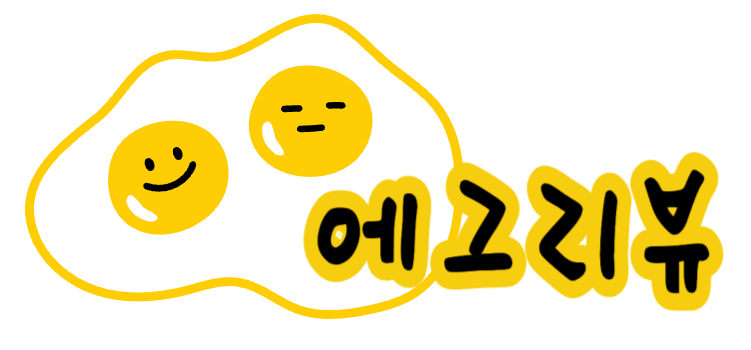
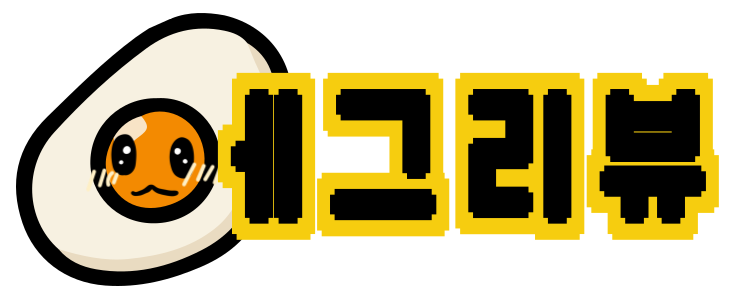
fix: 로고 추가

diff --git a/src/components/SearchResults.js b/src/components/SearchResults.js
@@ -1,23 +1,23 @@
 import React, { useState } from "react";
 import { List, Spin } from "antd";
-import { EnvironmentOutlined } from "@ant-design/icons"; // 네이버 지도 아이콘 대체
+import { EnvironmentOutlined } from "@ant-design/icons";
 
 const SearchResults = ({ results, loading }) => {
-  const [clickedItems, setClickedItems] = useState(new Set()); // 클릭된 항목을 관리
+  const [clickedItems, setClickedItems] = useState(new Set());
 
   // 클릭 시 호출되는 함수
   const handleItemClick = (item) => {
     setClickedItems((prev) => {
       const newSet = new Set(prev);
-      newSet.add(item.linkUrl); // 클릭된 항목의 linkUrl을 추가
+      newSet.add(item.linkUrl);
       return newSet;
     });
   };
 
   // 네이버 지도 검색 URL 생성 함수
   const getNaverMapUrl = (title) => {
-    const cleanedTitle = title.replace(/\[.*?\]\s*/g, "").trim(); // 대괄호 내용 제거
-    const encodedTitle = encodeURIComponent(cleanedTitle); // 검색어 인코딩
+    const cleanedTitle = title.replace(/\[.*?\]\s*/g, "").trim();
+    const encodedTitle = encodeURIComponent(cleanedTitle);
     return `https://map.naver.com/v5/search/${encodedTitle}`;
   };
 
@@ -27,6 +27,9 @@ const SearchResults = ({ results, loading }) => {
     const kstToday = new Date(today.getTime() + 9 * 60 * 60 * 1000); // UTC 시간에 9시간 추가
     return kstToday.toISOString().split("T")[0];
   };
+
+  // 날짜 유효성 검사 함수
+  const isValidDate = (date) => !isNaN(new Date(date).getTime());
 
   if (loading) {
     return (
@@ -42,10 +45,12 @@ const SearchResults = ({ results, loading }) => {
       dataSource={results}
       renderItem={(item) => {
         const isClicked = clickedItems.has(item.linkUrl);
-        const isToday =
-          item.applicationEndAt &&
-          new Date(item.applicationEndAt).toISOString().split("T")[0] ===
-            getTodayDate(); // 오늘인지 확인
+
+        const applicationEndDate = isValidDate(item.applicationEndAt)
+          ? new Date(item.applicationEndAt).toISOString().split("T")[0]
+          : "유효하지 않은 날짜";
+
+        const isToday = applicationEndDate === getTodayDate();
 
         return (
           <List.Item
@@ -82,7 +87,7 @@ const SearchResults = ({ results, loading }) => {
                         backgroundSize: "cover",
                         backgroundPosition: "center",
                         width: 128,
-                        height: 128, // 세로 크기 고정 (항목 크기를 이미지 크기로 제한)
+                        height: 128,
                         borderRadius: "8px",
                       }}
                     />
@@ -92,7 +97,7 @@ const SearchResults = ({ results, loading }) => {
               title={
                 <a
                   href={item.linkUrl}
-                  target="_blank" // 새 창으로 열기
+                  target="_blank"
                   rel="noopener noreferrer"
                   className="text-4xl !text-purple-600 font-semibold"
                   style={{ fontSize: "20px" }}
@@ -103,7 +108,6 @@ const SearchResults = ({ results, loading }) => {
               description={
                 <div>
                   <span className="text-gray-500">{item.offer}</span>
-                  {/* category, type, platform 추가 */}
                   <div
                     style={{
                       display: "flex",
@@ -111,7 +115,6 @@ const SearchResults = ({ results, loading }) => {
                       marginTop: "8px",
                     }}
                   >
-                    {/* platform */}
                     <span
                       style={{
                         backgroundColor: "#E8F6E8",
@@ -122,10 +125,8 @@ const SearchResults = ({ results, loading }) => {
                         fontSize: "10px",
                       }}
                     >
-                      {item.platform || "Blog"} {/* 기본값: Blog */}
+                      {item.platform || "Blog"}
                     </span>
-
-                    {/* type */}
                     <span
                       style={{
                         backgroundColor: "#FFF4E6",
@@ -138,8 +139,6 @@ const SearchResults = ({ results, loading }) => {
                     >
                       {item.type || "방문"}
                     </span>
-
-                    {/* category */}
                     {item.category && (
                       <span
                         style={{
@@ -164,11 +163,10 @@ const SearchResults = ({ results, loading }) => {
               style={{
                 display: "flex",
                 alignItems: "center",
-                gap: "16px", // 요소 간 간격
+                gap: "16px",
                 marginLeft: "15px",
               }}
             >
-              {/* 날짜 및 지원자 정보 */}
               <div
                 style={{
                   display: "flex",
@@ -178,23 +176,17 @@ const SearchResults = ({ results, loading }) => {
                   fontSize: "18px",
                 }}
               >
-                {/* applicationEndAt 날짜 */}
                 {item.applicationEndAt && (
                   <span
                     style={{
                       marginBottom: "8px",
                       fontWeight: "bold",
-                      color: isToday ? "red" : "black", // 오늘 날짜는 빨간색
+                      color: isToday ? "red" : "black",
                     }}
                   >
-                    {
-                      new Date(item.applicationEndAt)
-                        .toISOString()
-                        .split("T")[0]
-                    }
+                    {applicationEndDate}
                   </span>
                 )}
-                {/* applicantCount / capacity */}
                 {item.applicantCount !== undefined &&
                   item.capacity !== undefined && (
                     <span className="text-xl text-gray-400">
@@ -203,10 +195,8 @@ const SearchResults = ({ results, loading }) => {
                   )}
               </div>
 
-              {/* 오른쪽 여백 */}
               <div style={{ flexGrow: 1 }} />
 
-              {/* 네이버 지도 아이콘 */}
               <div
                 style={{
                   display: "flex",
@@ -219,7 +209,7 @@ const SearchResults = ({ results, loading }) => {
                   cursor: "pointer",
                 }}
                 onClick={(e) => {
-                  e.stopPropagation(); // 부모 클릭 이벤트 방지
+                  e.stopPropagation();
                   window.open(getNaverMapUrl(item.title), "_blank");
                 }}
               >

diff --git a/src/components/SearchBar.js b/src/components/SearchBar.js
@@ -11,6 +11,10 @@ const SearchBar = ({ onSearch }) => {
     }
   };
 
+  const handleLogoClick = () => {
+    window.location.href = "/home";
+  };
+
   return (
     <div
       style={{
@@ -21,16 +25,17 @@ const SearchBar = ({ onSearch }) => {
     >
       {/* 로고를 검색바 왼쪽에 위치시키고, 한 줄에 배치 */}
       <img
-        src="/EggReview.png" // 기본 이미지
+        src="/EggReview.png"
         alt="Logo"
         style={{
-          width: "80px", // 로고 크기 조정
-          marginRight: "10px", // 로고와 검색창 간의 간격
-          transition: "transform 0.3s ease", // 부드러운 효과를 위해 transition 추가
+          width: "100px",
+          marginRight: "5px",
+          transition: "transform 0.3s ease",
           cursor: "pointer",
         }}
-        onMouseEnter={(e) => (e.target.src = "/EggReview2.png")} // 마우스가 올라갔을 때 이미지 변경
-        onMouseLeave={(e) => (e.target.src = "/EggReview.png")} // 마우스가 떠날 때 원래 이미지로 복구
+        onClick={handleLogoClick}
+        onMouseEnter={(e) => (e.target.src = "/EggReview2.png")}
+        onMouseLeave={(e) => (e.target.src = "/EggReview.png")}
       />
       <Search
         placeholder="검색어를 입력하세요"
@@ -39,7 +44,7 @@ const SearchBar = ({ onSearch }) => {
         size="large"
         allowClear
         className="search-bar"
-        style={{ flex: 1 }} // 검색창이 나머지 공간을 차지하도록 설정
+        style={{ flex: 1 }}
       />
     </div>
   );
